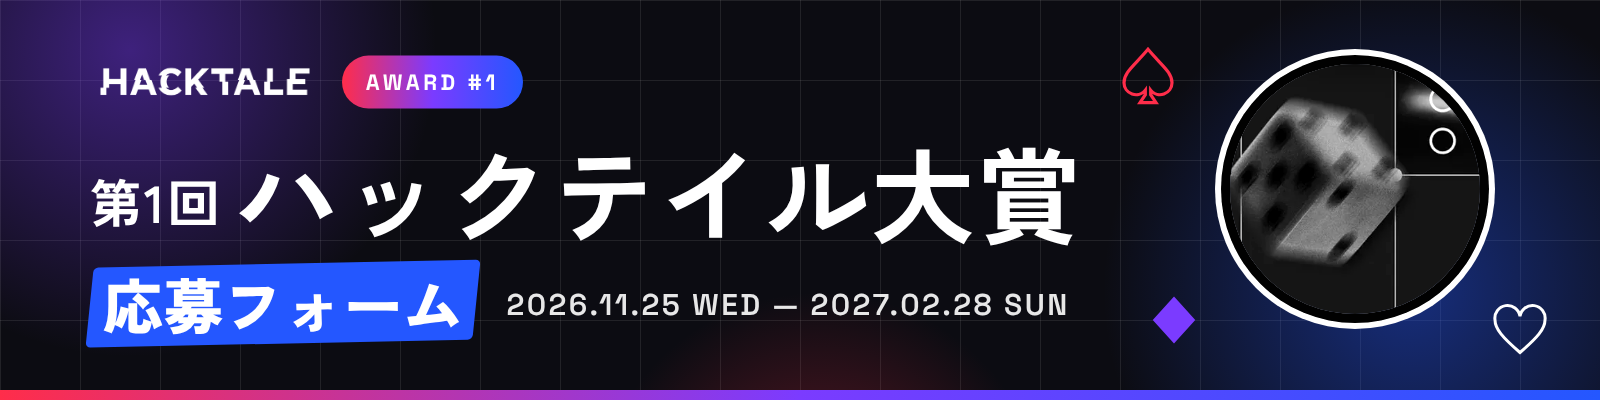
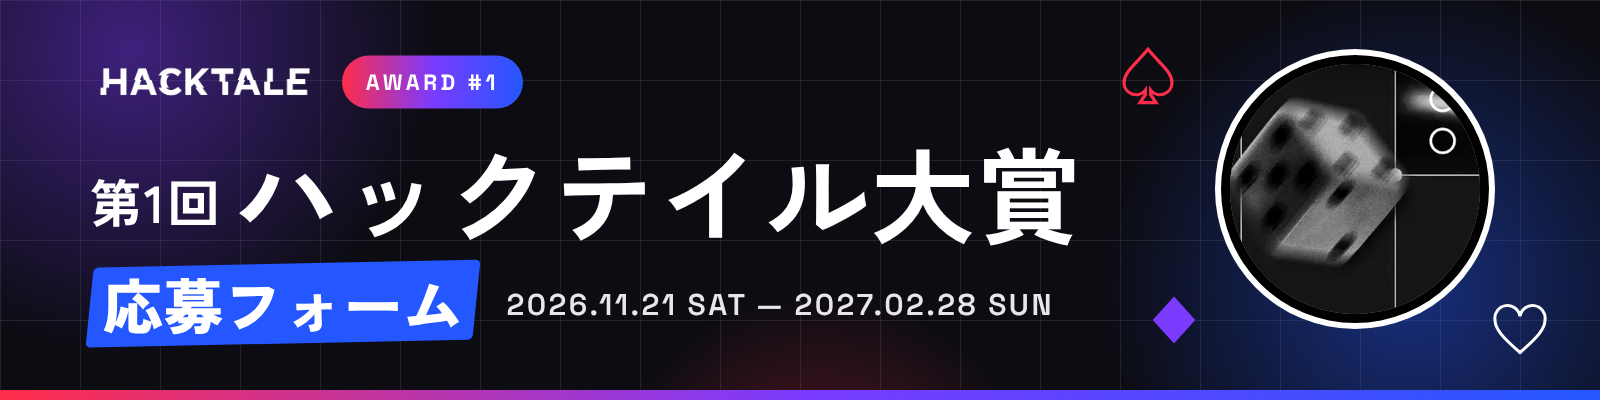
ハックテイル大賞：募集開始を11月21日（土）に変更（11月25日から）
LP・/hacktale/ の告知・llms.txt・シェア用画像・フォーム用とポスト用の素材の日付をそろえた。

Claude-Session: https://claude.ai/code/session_01Kh5Mnmn6PPiZ6n55iQcEx5

Changed region(s): [[0.4062, 0.72, 0.6875, 0.81]]

diff --git a/docs/hacktale-award-form/art.html b/docs/hacktale-award-form/art.html
@@ -103,7 +103,7 @@ body{background:#888;font-family:var(--go);font-weight:900;color:#fff}
   <div class="in">
     <div class="top"><img class="logo" src="../../public/assets/hacktale/logo.png"><span class="pill">AWARD #1</span></div>
     <h1><small>第1回</small>ハックテイル大賞</h1>
-    <div class="row"><span class="tile">応募フォーム</span><span class="date">2026.11.25 WED — 2027.02.28 SUN</span></div>
+    <div class="row"><span class="tile">応募フォーム</span><span class="date">2026.11.21 SAT — 2027.02.28 SUN</span></div>
   </div>
   <div class="bar"></div>
 </div>
@@ -170,7 +170,7 @@ body{background:#888;font-family:var(--go);font-weight:900;color:#fff}
     <div class="l"><span class="tile" style="--c:var(--purple);margin-left:0">作品</span><span class="p">が</span><span class="sm">もっと</span><span class="tile" style="--c:var(--red)">もっと</span></div>
     <div class="l"><span class="cut" data-t="増">増</span>えて欲しい<span class="bang">！</span></div>
   </div>
-  <div class="ft"><b>第1回 ハックテイル大賞 作品募集</b><span>2026.11.25 — 2027.02.28</span></div>
+  <div class="ft"><b>第1回 ハックテイル大賞 作品募集</b><span>2026.11.21 — 2027.02.28</span></div>
   <div class="bar"></div>
 </div>
 </body></html>

diff --git a/docs/hacktale-award-post/art.html b/docs/hacktale-award-post/art.html
@@ -111,7 +111,7 @@ body{background:#888;font-family:var(--go);font-weight:900;color:#fff}
   </div>
   <div class="bt">
     <h2>第1回 ハックテイル大賞<span class="tile">作品募集</span></h2>
-    <div class="row"><span class="date">2026.11.25 — 2027.02.28</span><span class="chip" style="--c:var(--red)">応募無料</span><span class="chip" style="--c:var(--purple)">プロ・アマ不問</span><span class="chip" style="--c:var(--blue)">何作品でも</span></div>
+    <div class="row"><span class="date">2026.11.21 — 2027.02.28</span><span class="chip" style="--c:var(--red)">応募無料</span><span class="chip" style="--c:var(--purple)">プロ・アマ不問</span><span class="chip" style="--c:var(--blue)">何作品でも</span></div>
   </div>
   <div class="bar"></div>
 </div>

diff --git a/src/pages/sitemap.xml.ts b/src/pages/sitemap.xml.ts
@@ -281,7 +281,7 @@ export const GET: APIRoute = async ({ site }) => {
     '/uwasabanashi/kotohogi/': '2026-10-06',
     '/gensou/': '2026-11-06',
     '/uwasabanashi/iinkai/': '2026-10-06',
-    '/hacktale-award/': '2026-11-20',
+    '/hacktale-award/': '2026-11-21',
   };
   // 公演検索サービスの作品詳細（公開作品のみ。テストデータ・非公開は src/data/events/index が除外済み）。
   // 日付別・条件別のページは作らない（一覧 /events/ と作品詳細だけを検索対象にする）。

diff --git a/CLAUDE.md b/CLAUDE.md
@@ -158,6 +158,7 @@
 - 文言はユーザーの Googleドキュメント「01_ハックテイル大賞 応募要項（頭脳戦）」のまま。トップの大義「頭脳戦、コンゲームの作品がもっともっと増えて欲しい！」はユーザー指定。運営法人名は株式会社ex Labs。応募フォーム（`ENTRY_URL`）は Google フォーム https://forms.gle/qrhMLYvNrD2vSfwcA（フォーム用の画像と質問文は docs/hacktale-award-form/）。
 - 2026-11-17 ユーザー指示：**「賞状」「トロフィー」「仮」は載せない**。契約条件で決まっていない項目（料率・売上の範囲・支払い時期・対象となる公演・独占の範囲と期間・協議期間）は**「要相談」**で統一（「別途相談」「調整中」「要記載」は使わない）。提出物の「指定フォーマット」は配布物がないので外した（ひな形を作ったら戻す）。原稿（Googleドキュメント）にはこれらが残っているので、原稿から写し直すときに戻さない。
 - 2026-11-16 ユーザー指示で作り直し：初版は参考サイト（企業の採用サイト）に似すぎていたため、**黒・白・紫・赤・青の多色**と別の形（黒地に方眼のヒーロー、色付きの札、トランプの記号、流れる帯、浮いた固定バー、下から出るメニュー）に。白×赤だけの配色・赤い三角・赤い全画面メニューには戻さない。WORKS は削除、「若干」は載せない、大賞の決まり方・契約の主な条件・審査の進め方・審査基準と配点は閉じておいて開ける欄。
+- **募集期間は 2026年11月21日（土）〜2027年2月28日（日）23:59**（2026-11-21 ユーザー指示で開始日を 11/25 から変更。原稿の 11/25 に戻さない）。日付は LP のほか /hacktale/ のティッカー・カード、llms.txt、ogp.png、docs/hacktale-award-form・-post の画像と文にもあるので、変えるときは全部そろえる。
 - 賞は **大賞（30万円＋1公演ごとのライセンス料）・特別賞（15万円＋1公演ごとのライセンス料。2026-11-18 に5万円から変更）・参加賞**の3つ（2026-11-17 に優秀賞を削除）。**特別賞も公演化つきで、大賞と同じく公演化契約を結ばないと受賞にならない**と記載している。ライセンス料の料率と売上の範囲はどちらも「要相談」。
 - 審査員は index.astro の `JUDGES`。**並びは50音順**（2026-11-18 ユーザー指示。`yomi`＝読みで自動的に並ぶ）：安藤耀司（なの）／コンテンツプロデューサー（読みは「あんどうようじ」と推定）、うみすけ（RIDDLER）／RIDDLER株式会社取締役/謎解きクリエイター、かるら／ハックテイル創設者、沙竹唯／企画屋（読みは「さたけゆい」と推定）、なつめぅ／ハックテイル代表、ねこまみれ。／ミステリーゲーム作家（名前は句点「。」まで含めて表記）、yasu（やす）／マーダーミステリー作家。「ゲスト審査員（後日発表）」の「（後日発表）」は 2026-11-19 に外した（戻さない）。
 - 改行は J.astro（BudouX）＋ `word-break:keep-all`。切りたくない語は index.astro の `KEEP`。flex／grid の直下に J の出力を直接置かない。

diff --git a/docs/hacktale-award-post/post-text.md b/docs/hacktale-award-post/post-text.md
@@ -14,7 +14,7 @@
 読み合いと閃きで勝敗が決まる、頭脳戦ゲームを募集します。
 
 🏆大賞30万円＋1公演ごとのライセンス料
-📅11/25〜2027/2/28
+📅11/21〜2027/2/28
 応募無料・プロアマ不問
 
 https://kabuexlabs.com/hacktale-award/
@@ -31,7 +31,7 @@ https://kabuexlabs.com/hacktale-award/
 読み合いと閃きで勝敗が決まる、オリジナルの頭脳戦ゲームを募集。
 
 大賞は賞金30万円＋公演ごとのライセンス料。
-11/25（水）から受付開始です。
+11/21（土）から受付開始です。
 
 https://kabuexlabs.com/hacktale-award/
 
@@ -62,5 +62,5 @@ https://kabuexlabs.com/hacktale-award/
 ## メモ
 - X の文字数は全角140字（半角280）まで。URL は長さに関係なく半角23字として数える。上の3案はいずれも上限内（A: 273、C: 275、B: 208 ／280）。
 - 画像を付けたポストでは、リンクのカード（OGP 画像）は表示されず、本文の URL がリンクになる。リンクのカードを出したい場合は画像を付けずに URL だけ入れる（カードの画像は `public/assets/hacktale/award/ogp.png`）。
-- 募集開始は 11/25。開始前に出す場合は案C（「11/25（水）から受付開始です」）が合う。
+- 募集開始は 11/21（土）（2026-11-21 に 11/25 から変更）。開始当日に出すなら案C（「11/21（土）から受付開始です」）が合う。
 - 賞の画像には「大賞・特別賞は公演化契約を結んだ時点で確定」の注記を入れてある（LP と同じ条件）。

diff --git a/docs/hacktale-award-lp.md b/docs/hacktale-award-lp.md
@@ -63,4 +63,5 @@
 ## X（Twitter）ポスト用の素材（2026-11-20）
 - `docs/hacktale-award-post/`：画像4枚（1600×900。メイン／賞／審査員／募集内容）と文案 `post-text.md`（告知・大義先頭・審査員紹介の3案。いずれも X の上限内）。元データは `art.html`。
 - 賞・審査員・締切を変えたら、art.html を直して撮り直す（LP と内容をそろえる）。
+- 2026-11-21 ユーザー指示：**募集開始を 11月25日（水）→ 11月21日（土）に変更**（締切 2027年2月28日（日）23:59 は変更なし）。直した場所：LP（トップの日付・説明文・審査の流れ・応募概要・応募欄）、/hacktale/ のティッカーとイベント欄のカード、llms.txt、シェア用画像（ogp.png）、Google フォーム用のヘッダー画像と説明文、X ポスト用の1枚目の画像と文案。**Google フォーム本体（ヘッダー画像・説明文の日付）はユーザー側で差し替えが必要**。原稿（Googleドキュメント）は 11/25 のままなので、写し直すときに戻さない。
 

diff --git a/docs/hacktale-award-form/form-text.md b/docs/hacktale-award-form/form-text.md
@@ -49,7 +49,7 @@
 読み合いと閃きで勝敗が決まる、オリジナルの頭脳戦ゲームを募集します。
 
 ■ 募集期間
-2026年11月25日（水）〜2027年2月28日（日）23:59
+2026年11月21日（土）〜2027年2月28日（日）23:59
 
 ■ ご応募の前に
 ・応募は無料です。1作品につき1回、このフォームを送信してください。
